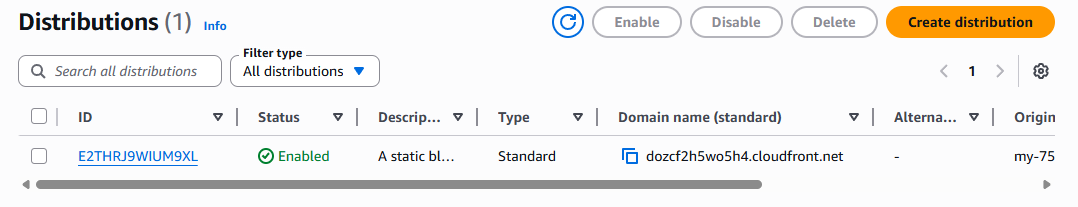
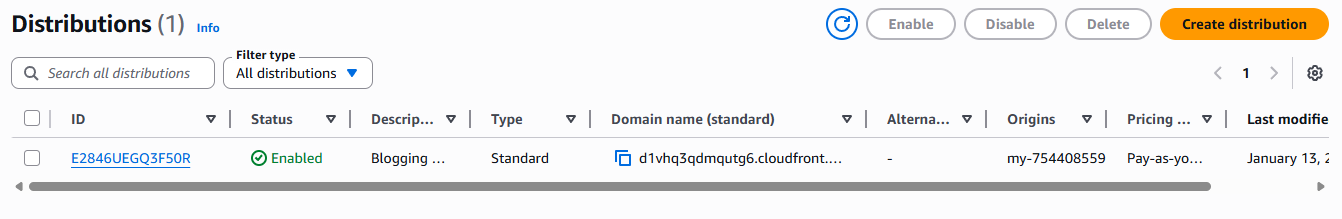
CloudFront distribution update

diff --git a/README.md b/README.md
@@ -66,7 +66,7 @@ The following files and folders are included in this project:
 * **CloudFront URL:**
 
   ```
-  https://dozcf2h5wo5h4.cloudfront.net/index.html
+ [d1vhq3qdmqutg6.cloudfront.net](https://d1vhq3qdmqutg6.cloudfront.net/)
   ```
 
 ---
